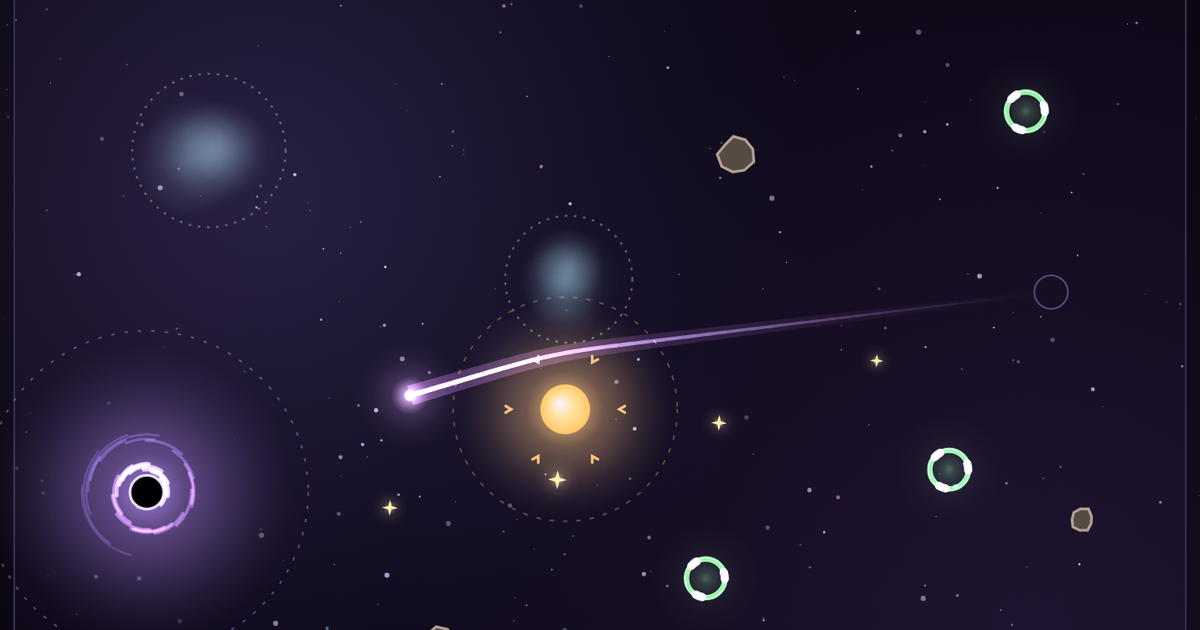
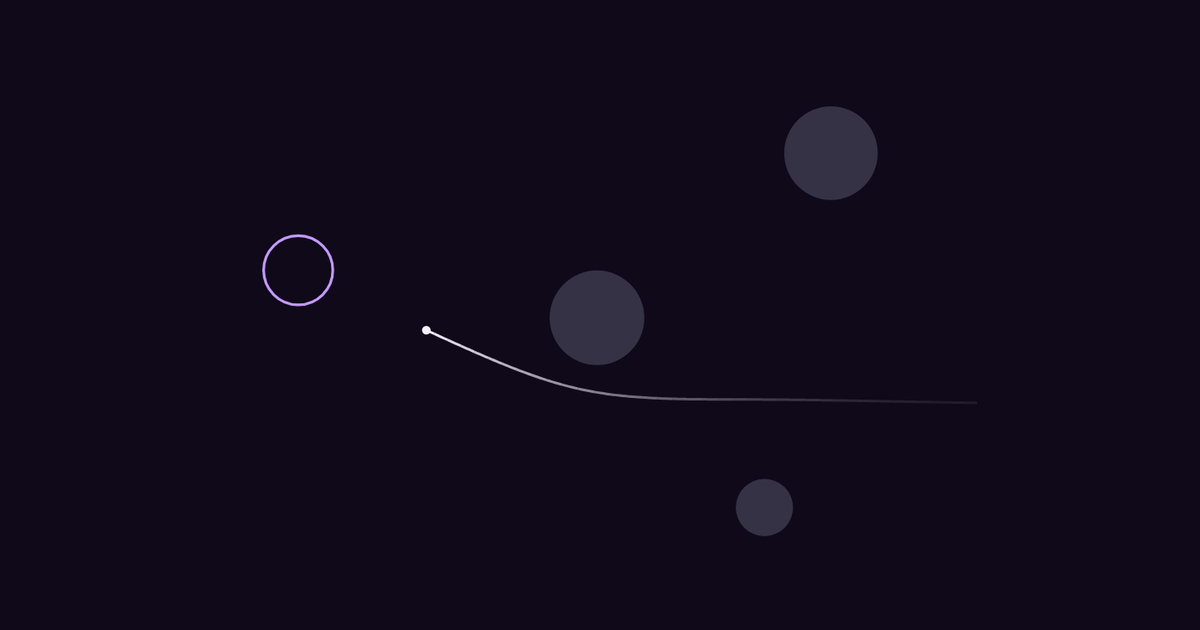
comet.md says what Comet is now, why each thing on screen is there, the feel and the fields in numbers, and what is left for her to confirm; its share picture made again

diff --git a/docs/comet.md b/docs/comet.md
@@ -1,131 +1,125 @@
 # Comet
 
-A draft mini at `/minis/comet/`: an aim-and-fling gravity game. Pull back and let go, and a comet flies
-through a field into a black hole. Stars pull it and pushers push it, each only within the glow drawn
-round it; clouds slow it, rings speed it up, walls bounce it, wormholes carry it across, and sparks can be
-picked up on the way. Planets, moons, rocks and, later, the hole itself move. It is a game of the site's
-own, the one gravity game wanted on the site.
+A draft mini at `/minis/comet/`: pull back, let go, and a comet curves round a few planets into a hole.
+One motion, done carefully, and nothing else on screen. It is a game of the site's own in the
+aim-and-fling kind.
+
+It was made again from nothing on 13 Nov 2026. The owner played the version before (clouds, rings,
+walls, rocks, sparks, pushers, wormholes, glows, labels and hints) and found it a pile of features that
+looked generated and did not feel good. She settled the remake: one thing done beautifully; almost nothing
+to look at, like a diagram; fields made by a generator from a seed.
 
 ## Where the code is
 
-- `src/minis/comet.ts`: the game, drawn (with glow) and played.
-- `src/minis/flight.ts`: the flight without its picture: the pull of everything on the comet and the rule of
-  each kind of thing, in fixed steps of 1/120 s, the same on every machine for the same field and launch.
-- `src/minis/fields.ts`: making fields round ideas, and the solver that proves each can be won.
-  `fields.test.ts` prints the difficulty table and the time it takes to make a field.
+- `src/minis/comet.ts`: the scene: drawing, the pull, the arrival and the move to the next field.
+- `src/minis/flight.ts`: the flight without its picture, in fixed steps of 1/120 s, the same on every
+  machine for the same field and launch.
+- `src/minis/fields.ts`: making fields from a seed and a level, and the search that proves each can be won.
+  `fields.test.ts` prints the difficulty table and how long a field takes to make.
 - `src/content/minis/comet.mdx`: its words; marked `draft: true`.
-- `src/styles/minis.css`: its stage, and the stage filling the whole window.
+- `src/styles/minis.css`: its one line under the canvas.
 
-## Built
+## What is on screen, and why
 
-- **The field** is one shape, 1600 by 1000 units, fitted whole to the canvas and turned on its side on a
-  tall screen, so a seed is the same puzzle on a phone and on a desktop. A button under the field, or F,
-  lifts the stage out of the page to fill the window, growing from where it was; Escape or the button puts
-  it back.
-- **The pull.** Every star, pusher and the hole pulls by its mass over the distance squared, softened at its
-  middle, and brought smoothly down to nothing at a reach of its own (the pull is multiplied by
-  (1 - d²/reach²)²). What is drawn is what is felt: each glow fades as the pull does and ends at a dotted
-  ring where the pull ends. Stars reach 4.5 of their radii and pushers 4.
-- **The hole** has mass 3e7, a reach of 220 units and a grip of 90: within the grip it takes speed away
-  (up to 5 parts in each second at its middle), so a comet that comes near spirals in. Its mouth, where a
-  comet is swallowed, is 26 units on the first fields and 22 by field 12. A comet aimed 70 units to one side
-  of it is taken; one passing 240 units wide is not bent at all. Before, its pull had no edge (150 units/s²
-  at 400 units away across a field of 1000) and its mouth was 17 to 28 units.
-- **The comet** sets off at up to 600 units a second (720 before, on a field of 1000): a few seconds across
-  the field at a middle strength. Time slows as it nears the hole, so the capture can be watched. A flight
-  that has not ended after 20 seconds is a miss.
-- **The kinds of thing**, each with one rule and one look: a star (gold) pulls; a pusher (blue rim) pushes;
-  a rock (grey lump) does neither and stops the comet; a cloud (soft teal, dotted edge) takes away speed for
-  each unit crossed, 1.2 times the distance; a ring (green hoop) multiplies the speed by 1.4 each time the
-  comet goes in, up to 1000; a wall (pale bar) bounces it as a mirror would; a wormhole sends it out of its
-  twin at the same speed and heading; a spark (four points) is picked up and changes nothing.
-- **Things that move** do so by the flight's clock, which starts at the launch, so each try is the same
-  puzzle and the solver's launch always wins. Planets and moons go round on circles, rocks drift to and fro,
-  and from field 12 the hole may wander. While aiming, each moving thing is drawn where it is at the
-  launch, with its way dotted and a dot for each of its first eight seconds; a missed shot's ghost marks its
-  seconds too, so the two can be compared. Places on a circle are taken from the same table of directions
-  as the aim, so nothing uses a sine or a cosine.
-- **Fields are made round one idea**: go round a big star; sling round a giant; a row of pushers; a star
-  with a cloud round one side and a pusher round the other; a ring for the speed to pass pushers by the
-  hole; a wall across the way to bank off; the hole walled in on four sides, reached only through a
-  wormhole; a planet going round a star; rocks drifting across both ways round a star; a moon going round
-  its star; a relay of stars past a pusher; a hole that wanders. Each idea puts something solid across the
-  straight way. The first twelve fields bring in one new kind each, in that order (the eleventh brings
-  none), and the field where a kind is first met names its rule beside it. Past twelve the ideas come round
-  again in an order the seed picks, never the same idea twice running, with more round them.
-- **The solver** flies launches over 300 degrees of directions round the hole and seven strengths, the moving
-  things included, and keeps a field only if a launch wins with room either side and a notch either way,
-  and aiming straight at the hole does not win. It pauses every two flights; the page makes the next field
-  in what is left of each frame while this one is played, and the first one with most of each frame. A field
-  takes a median of 35 ms to make, the slowest 275 ms, and no piece between pauses takes more than about
-  5 ms.
-- **Sparks** are laid along a second, harder way in when the solver found one, so picking them all up is a
-  choice; the count shows over the field and is said when the field is won.
-- **Feel**: the dotted line shows the first 0.8 s of the flight, with a larger dot at each half second, and
-  stops where the comet first goes into or off something. Every launch is a shot. A miss shakes the scene
-  and the comet is back at the start at once; a press during a flight gives it up at once and starts the
-  next pull, and so do Enter and R. Arrow keys aim and set strength; Enter or Space launches.
-- Each field comes from a seed and a level (`?seed=&field=`), so a link opens the same field for anyone.
-- A share picture.
+- **The sky**: the site's own ground. Nothing drawn on it.
+- **Planets**: flat circles in one dim color. The bigger, the stronger the pull; size says nothing else.
+- **The hole**: a thin ring in the accent, the only colored thing. Its size is exactly where a comet
+  counts as arrived, so the mark and the rule are the same.
+- **The comet**: a point. **Its trail**: a thin line that fades toward its tail, the only decoration.
+- **While aiming**: the line of the pull, from the comet back the way it is pulled. No path ahead is shown.
+- **Missed shots**: the last three stay, faint and fainter, so each shot is aimed against the last.
+- **Under the canvas**: one quiet line, "Field 4, 2 shots.", and the sound switch.
+
+There is no text over the field, no score panel and no tutorial. Field 1 is one planet with the hole
+behind it, so a straight shot strikes the planet and the first lesson is to curve.
+
+## The feel
+
+- **The pull.** The comet is held at the start. A drag anywhere pulls a line back from it, and the
+  comet goes the other way. The pull's length is the strength, one to one up to 0.72 of a full pull,
+  then giving less and less for each pixel, so the last part resists. A full pull is 0.42 of the
+  canvas's shorter side, between 120 and 220 pixels. Under 8 pixels is a tap, which does nothing, even
+  during a flight. Letting go launches at once. The keyboard does the same: arrows aim by half a degree
+  (ten with Shift) and set the strength by 0.02, Enter or Space lets go, Escape puts the pull down.
+- **The flight.** Full strength is 520 units a second on a field of 1600 by 1000: a winning flight takes
+  about 2 to 4 seconds. A planet pulls by a mass of 1970 times its radius squared, over the distance squared, fading to nothing at 6 radii, so a planet bends what passes near it and a close pass
+  slings it, and the far side of the field is left alone. The hole pulls a little within 160 units.
+  The step is the leapfrog kind, so a pass round a planet keeps its speed.
+- **Arriving.** Inside the ring the comet is caught: it slows at once, then spirals in over 0.95 s, the
+  circle closing and the turning quickening, 1.6 turns, the way it was going round. Its trail is drawn in
+  after it along its own path. As it goes, the ring gives a little inward and comes back, and a low note
+  sounds. Then half a second of stillness. Then the ring closes, the comet rises out of it and glides to
+  the next start, while the old planets shrink away and the new ones grow, nearest the start first. No
+  button.
+- **Missing.** Touching a planet, going 50 units past the field's edge, or flying 12 seconds is a miss.
+  The trail stays, the comet is back at once. A pull begun during a flight gives that flight up.
+- **Sound**, off until switched on: a soft tone on letting go whose pitch rises with the pull, and a low
+  note on arriving.
+
+## The fields
+
+- The comet starts near one side and the hole is near the other, the sides swapping each level, so the
+  hole just reached is near where the next field starts.
+- One planet always stands across the straight way, so a shot aimed at the hole strikes it. The others
+  stand where a curve to the hole would pass: beside the way, or guarding the hole.
+- Difficulty grows by the way to the hole getting longer (760 units on field 1, up to 1160 by field 11)
+  and by more planets (1, then 2 to field 4, 3 to field 12, then 3 or 4), never by new kinds of thing.
+- **The search** flies a launch in every direction a degree apart at 21 strengths from the weakest to
+  full. A field is kept only if aiming straight at the hole never wins, its widest way in is at least
+  3 degrees (2 from field 9), and not too many launches win (170 on field 1, down to 42). The launch from
+  the middle of the widest way in comes with the field; it must arrive within 5 seconds, so a field is never won only by waiting. A field takes a
+  median of about 50 ms to make, in pieces of under 2 ms, and the next field is made while this one is
+  played.
+- Flights use only adding, multiplying, dividing and square roots, and directions come from a table made
+  by turning one step at a time, so a field and its proof are the same in every browser.
+- A field is a link, `?seed=…&field=…`. A visitor goes on where they left off. The run is kept under a new
+  version, so what the old game kept is not read, and the old bests are removed.
 
 ### The difficulty table
 
-From `fields.test.ts`, 30 seeds a level:
+From `fields.test.ts`, six seeds a level:
 
-| level | idea | new | things | mouth | way in asked (degrees) | way in, median | winning flight, median (s) | straight wins | in band |
-|---|---|---|---|---|---|---|---|---|---|
-| 1 | bend | star | 3.0 | 26 | 3.0 to 24 | 3.5 | 3.2 | 0% | 100% |
-| 2 | slingshot | spark | 4.0 | 26 | 2.9 to 22 | 3.0 | 2.4 | 0% | 100% |
-| 3 | push | pusher | 6.9 | 25 | 2.7 to 20 | 4.5 | 4.1 | 0% | 100% |
-| 4 | cloud | cloud | 7.0 | 25 | 2.5 to 19 | 5.5 | 4.5 | 0% | 100% |
-| 5 | ring | ring | 8.0 | 25 | 2.4 to 17 | 3.5 | 2.5 | 0% | 100% |
-| 6 | bounce | wall | 7.0 | 24 | 2.3 to 15 | 10.0 | 6.3 | 0% | 100% |
-| 7 | wormhole | wormhole | 11.0 | 24 | 2.1 to 13 | 4.5 | 3.0 | 0% | 100% |
-| 8 | orbit | planet | 8.0 | 24 | 1.9 to 11 | 3.0 | 2.9 | 0% | 100% |
-| 9 | gap | rock | 9.0 | 23 | 1.8 to 10 | 3.0 | 3.7 | 0% | 100% |
-| 10 | moon | moon | 10.0 | 23 | 1.7 to 8 | 4.5 | 3.9 | 0% | 100% |
-| 11 | relay | | 11.0 | 23 | 1.5 to 6 | 1.5 | 3.8 | 0% | 100% |
-| 12 | wander | wandering hole | 9.0 | 22 | 1.5 to 5 | 3.0 | 4.1 | 0% | 97% |
+| level | planets | span | winning launches (median, least, most) | way in, degrees | winning flight, s |
+|---|---|---|---|---|---|
+| 1 | 1 | 760 | 127, 119, 131 | 5 | 2.0 |
+| 2 | 2 | 800 | 103, 79, 105 | 4 | 2.3 |
+| 4 | 2 | 880 | 88, 74, 92 | 4 | 1.9 |
+| 6 | 3 | 960 | 68, 57, 71 | 3 | 2.0 |
+| 8 | 3 | 1040 | 57, 55, 66 | 3 | 2.1 |
+| 12 | 3 | 1160 | 48, 39, 50 | 2 | 3.0 |
+| 20 | 4 | 1160 | 37, 28, 42 | 2 | 2.4 |
+| 30 | 3 | 1160 | 39, 33, 41 | 2 | 3.1 |
 
 ## Decided
 
-- It stays a draft until the owner has seen and played it.
-- Glow is allowed inside minis; this is one.
-- The owner found the first version weak: the hole too weak and felt across the whole field, the comet too
-  fast, the fields too small and alike. She settled that a field is one big screen seen whole, with more in
-  it, and that fields differ by things that move and by more kinds of thing.
-- One field shape for every screen, turned on a tall one, so a seed is one puzzle everywhere.
-- The flight's clock starts at the launch: the puzzle is aim and strength, and the same on every try.
-- The bests are kept under a new version: those from before were for other fields of the same name.
+- One thing: a comet, planets, one hole. No other kind of body, nothing that moves, nothing that pushes.
+  After forty fields of play nothing was clearly missing, so no second idea was added.
+- Almost nothing to look at; no glow, gradient or icon. The trail is the only decoration.
+- Fields are made by the generator from a seed, and each is proven winnable by the flight itself.
+- One field shape for every screen, turned on its side on a tall one, so a seed is one puzzle everywhere.
+- It stays a draft until the owner has played it.
 
 ## Open, for the owner to confirm
 
-- The numbers of the feel: the hole's reach and grip, the comet's speed, how strongly clouds brake and rings
-  push, and how much of the path the aiming line shows.
-- Clock from the launch, against a clock that runs while aiming so that the timing of the release matters.
-- Whole window as a button, against the stage simply being larger on its page.
-- Sparks as the name for the stars to pick up, since gold stars already pull.
-- Ways in are narrower than before on the first fields (3 degrees, where it was 5): going round anything
-  from across a big field narrows them. The pull is longer (up to 240 pixels) to aim finely by hand.
-- The wall field is the easiest of the twelve (a 10 degree way in).
-- When it leaves draft.
-
-## Old links and kept runs
-
-A seed and a field number still open a field, but not the same one as before: the generator changed what
-they mean. A kept run is read back as before (its seed and field), so a returning visitor goes on at the
-same number in the new fields. Anything damaged, or a field number past any played, still opens a field at
-once; past 24 the fields ask no more.
+- The numbers of the feel: the comet's speed, the pull's length and where it starts to resist, the
+  spiral's length and turns, the stillness, the move.
+- Three missed trails kept, against one or all.
+- No line showing the path ahead: the old trails are the only aid.
+- The ring in the accent and everything else in greys and white.
+- The ring's small give as the comet is swallowed.
+- Field 1's way in (5 degrees) and the floor of 2 degrees from field 9: fine with a mouse, close work on a
+  phone.
+- The share picture: field 6 of the seed "lumen", most of the way through its winning shot.
 
 ## How to run and test
 
 ```sh
 bun run dev                          # /minis/comet/ (drafts show on the dev server)
-bun test src/minis/fields.test.ts    # every field winnable, its idea and kinds, sparks, timing, the difficulty table
-bun test src/minis/flight.test.ts    # the flight and each kind's rule
+bun test src/minis/flight.test.ts    # the flight's rules, and one flight pinned to the digit
+bun test src/minis/fields.test.ts    # every field winnable, never straight, the table, timing, kept state
 ```
 
 ## Known weak spots
 
-- The difficulty curve is set by the solver's table and has not been tried by people.
-- The page's words (`comet.mdx`) still describe the first version.
+- The difficulty has been played by a script with the solver's shots and by bad shots, not yet by people.
+- The page's words (`comet.mdx`) still describe the game before this one.
